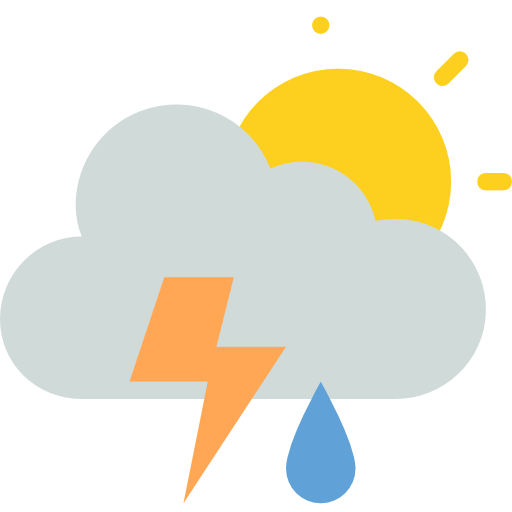
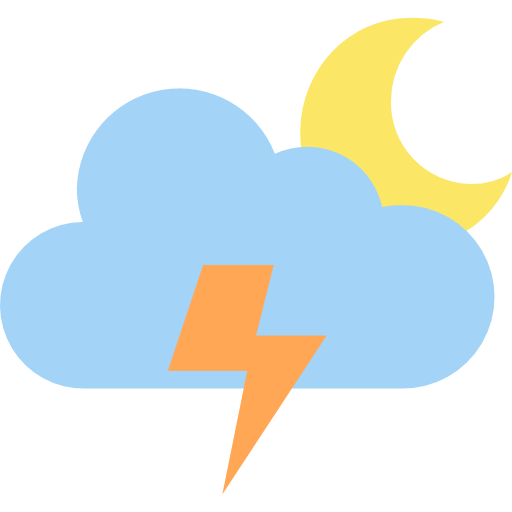
chore: add per hour list

diff --git a/lib/features/weather/weather_today.dart b/lib/features/weather/weather_today.dart
@@ -1,47 +1,134 @@
 import 'package:flutter/material.dart';
 import 'package:flutter_weather_app/models/weather_today_model.dart';
 import 'package:flutter_weather_app/utils/app_date_prettify.dart';
+import 'package:flutter_weather_app/utils/app_weather_code_prettify.dart';
 
-class WeatherToday extends StatelessWidget {
+class WeatherToday extends StatefulWidget {
   const WeatherToday({super.key, required this.weather, required this.address});
 
   final WeatherTodayModel weather;
   final List<String> address;
 
   @override
+  State<WeatherToday> createState() => _WeatherTodayState();
+}
+
+class _WeatherTodayState extends State<WeatherToday> {
+  bool showPerHour = false;
+
+  @override
   Widget build(BuildContext context) {
     return Container(
-      height: 250,
+      height: showPerHour ? 320 : 170,
       color: const Color(0xfff2f8f9),
-      padding: const EdgeInsets.symmetric(vertical: 20, horizontal: 15),
+      padding: const EdgeInsets.symmetric(vertical: 10, horizontal: 15),
       child: Column(
         crossAxisAlignment: CrossAxisAlignment.start,
         children: [
-          Text(
-            address.first,
-            style: const TextStyle(fontSize: 25, fontWeight: FontWeight.w600),
-          ),
-          Text(
-            DatePrettify.weekdayMonthDayToString(DateTime.now()),
-          ),
           Row(
             mainAxisAlignment: MainAxisAlignment.spaceAround,
             children: [
               Container(
-                margin: const EdgeInsets.only(top: 20),
-                height: 120,
-                child: Image.asset('assets/cloudy.png'),
+                margin: const EdgeInsets.only(top: 20, bottom: 10),
+                height: 80,
+                child: Image.asset(
+                  WeatherCodePrettify.getImageAsset(
+                      widget.weather.weatherCode.first, false),
+                ),
               ),
-              const Column(
+              Column(
+                crossAxisAlignment: CrossAxisAlignment.end,
                 children: [
                   Text(
-                    '36°',
-                    style: TextStyle(fontSize: 40),
+                    '${widget.weather.temp.first}°',
+                    style: const TextStyle(fontSize: 40),
                   ),
-                  Text('Partly Cloudy')
+                  Container(
+                    margin: const EdgeInsets.only(left: 20),
+                    width: 180,
+                    child: Text(
+                      WeatherCodePrettify.getDescription(
+                        widget.weather.weatherCode.first,
+                      ),
+                      textAlign: TextAlign.right,
+                    ),
+                  )
                 ],
               ),
             ],
+          ),
+          Visibility(
+            visible: showPerHour,
+            child: Container(
+              margin: const EdgeInsets.only(top: 30),
+              height: 130,
+              child: ListView.builder(
+                scrollDirection: Axis.horizontal,
+                itemCount: widget.weather.time.length,
+                itemBuilder: (context, i) {
+                  return WeatherPerHourTile(weather: widget.weather, index: i);
+                },
+              ),
+            ),
+          ),
+          GestureDetector(
+            onTap: () {
+              showPerHour = !showPerHour;
+              setState(() {});
+            },
+            child: Center(
+                child: Container(
+              margin: const EdgeInsets.only(top: 10),
+              child: Text(
+                showPerHour ? 'Hide Details' : "Show More Details",
+                style: TextStyle(
+                    color: showPerHour
+                        ? Colors.grey[400]
+                        : const Color(0xff7f94b7),
+                    fontWeight: FontWeight.w600),
+              ),
+            )),
+          )
+        ],
+      ),
+    );
+  }
+}
+
+class WeatherPerHourTile extends StatelessWidget {
+  const WeatherPerHourTile(
+      {super.key, required this.weather, required this.index});
+
+  final WeatherTodayModel weather;
+  final int index;
+
+  @override
+  Widget build(BuildContext context) {
+    return Container(
+      margin: const EdgeInsets.all(5),
+      padding: const EdgeInsets.all(10),
+      decoration: BoxDecoration(
+          color: Colors.white, borderRadius: BorderRadius.circular(10)),
+      child: Column(
+        children: [
+          Text(
+            DatePrettify.timeToString(weather.time[index]),
+            style: TextStyle(color: Colors.grey[400]),
+          ),
+          Container(
+            margin: const EdgeInsets.symmetric(vertical: 10),
+            height: 30,
+            child: Image.asset(
+              WeatherCodePrettify.getImageAsset(
+                  weather.weatherCode[index], false),
+            ),
+          ),
+          Container(
+            margin: const EdgeInsets.only(top: 10),
+            child: Text(
+              '${weather.temp[index]}°',
+              style: const TextStyle(fontWeight: FontWeight.w600),
+            ),
           ),
         ],
       ),

diff --git a/lib/utils/app_weather_code_prettify.dart b/lib/utils/app_weather_code_prettify.dart
@@ -1,0 +1,53 @@
+class WeatherCodePrettify {
+  static getDescription(int value) {
+    switch (value) {
+      case 0:
+        return 'Clear sky';
+      case 1 || 2 || 3:
+        return 'Mainly clear, partly cloudy, and overcast';
+      case 45 || 48:
+        return 'Fog and depositing rime fog';
+      case 51 || 53 || 55:
+        return 'Drizzle:\n Light, moderate, and dense intensity';
+      case 56 || 57:
+        return 'Freezing Drizzle:\n Light and dense intensity';
+      case 61 || 63 || 65:
+        return 'Rain:\n Slight, moderate and heavy intensity';
+      case 66 || 67:
+        return 'Freezing Rain:\n Light and heavy intensity';
+      case 71 || 73 || 75:
+        return 'Snow fall:\n Slight, moderate, and heavy intensity';
+      case 77:
+        return 'Snow grains';
+      case 80 || 81 || 82:
+        return 'Rain showers:\nSlight, moderate, and violent';
+      case 85 || 86:
+        return 'Snow showers slight and heavy';
+      case 95:
+        return 'Thunderstorm:\nSlight or moderate';
+      case 96 || 99:
+        return 'Thunderstorm with slight and heavy hail';
+      default:
+        return '';
+    }
+  }
+
+  static getImageAsset(int value, bool isDayTime) {
+    switch (value) {
+      case 0:
+        return isDayTime ? 'assets/day.png' : 'assets/night.png';
+      case 1 || 2 || 3:
+        return isDayTime ? 'assets/cloudy_1.png' : 'assets/cloudy_2.png';
+      case 45 || 48 || 51 || 53 || 55 || 56 || 57:
+        return isDayTime ? 'assets/fog_1.png' : 'assets/fog_2.png';
+      case 61 || 63 || 65 || 66 || 67:
+        return isDayTime ? 'assets/rain_1.png' : 'assets/rain_2.png';
+      case 71 || 73 || 75 || 77 || 80 || 81 || 82 || 85 || 86:
+        return isDayTime ? 'assets/snow_1.png' : 'assets/snow_2.png';
+      case 95 || 96 || 99:
+        return isDayTime ? 'assets/storm_1.png' : 'assets/storm_2.png';
+      default:
+        return 'assets/weather.png';
+    }
+  }
+}

diff --git a/lib/features/weather/weather_screen.dart b/lib/features/weather/weather_screen.dart
@@ -5,6 +5,7 @@ import 'package:flutter_weather_app/features/weather/weather_this_week.dart';
 import 'package:flutter_weather_app/features/weather/weather_today.dart';
 import 'package:flutter_weather_app/models/weather_model.dart';
 import 'package:flutter_weather_app/models/weather_today_model.dart';
+import 'package:flutter_weather_app/utils/app_date_prettify.dart';
 import 'package:flutter_weather_app/utils/app_geolocator.dart';
 
 class WeatherScreen extends StatefulWidget {
@@ -46,12 +47,21 @@ class _WeatherScreenState extends State<WeatherScreen> {
   Widget build(BuildContext context) {
     return Scaffold(
       appBar: AppBar(
-        backgroundColor: const Color(0xfff2f8f9),
-        title: const Text(
-          'Weather Forecast',
-          style: TextStyle(fontSize: 25),
-        ),
-      ),
+          backgroundColor: const Color(0xfff2f8f9),
+          title: Column(
+            crossAxisAlignment: CrossAxisAlignment.start,
+            children: [
+              Text(
+                address.first,
+                style:
+                    const TextStyle(fontSize: 25, fontWeight: FontWeight.w600),
+              ),
+              Text(
+                DatePrettify.weekdayMonthDayToString(DateTime.now()),
+                style: TextStyle(fontSize: 14),
+              ),
+            ],
+          )),
       body: SingleChildScrollView(
         physics: const NeverScrollableScrollPhysics(),
         child: GradientContainer(

diff --git a/lib/features/weather/weather_list_tile.dart b/lib/features/weather/weather_list_tile.dart
@@ -1,6 +1,7 @@
 import 'package:flutter/material.dart';
 import 'package:flutter_weather_app/models/weather_model.dart';
 import 'package:flutter_weather_app/utils/app_date_prettify.dart';
+import 'package:flutter_weather_app/utils/app_weather_code_prettify.dart';
 
 class WeatherListTile extends StatelessWidget {
   const WeatherListTile(
@@ -38,7 +39,10 @@ class WeatherListTile extends StatelessWidget {
           ),
           SizedBox(
             height: 40,
-            child: Image.asset('assets/cloudy.png'),
+            child: Image.asset(
+              WeatherCodePrettify.getImageAsset(
+                  weather.weatherCode[index], true),
+            ),
           ),
           Container(
             margin: const EdgeInsets.only(left: 30),

diff --git a/lib/utils/app_date_prettify.dart b/lib/utils/app_date_prettify.dart
@@ -16,4 +16,10 @@ class DatePrettify {
     final DateFormat formatter = DateFormat('yyyy-MM-dd');
     return formatter.format(value);
   }
+
+  static String timeToString(String value) {
+    final DateTime date = DateTime.parse(value);
+    final DateFormat formatter = DateFormat('HH:mm');
+    return formatter.format(date);
+  }
 }
